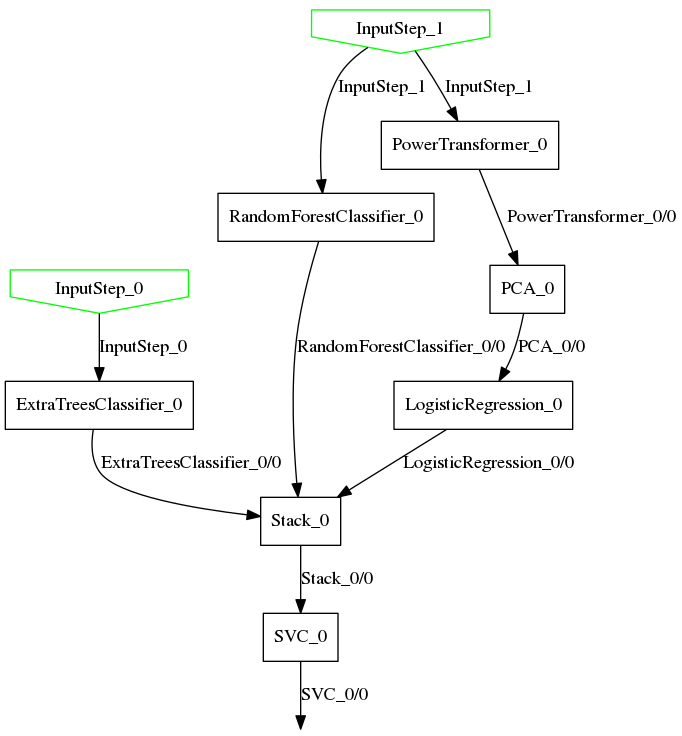
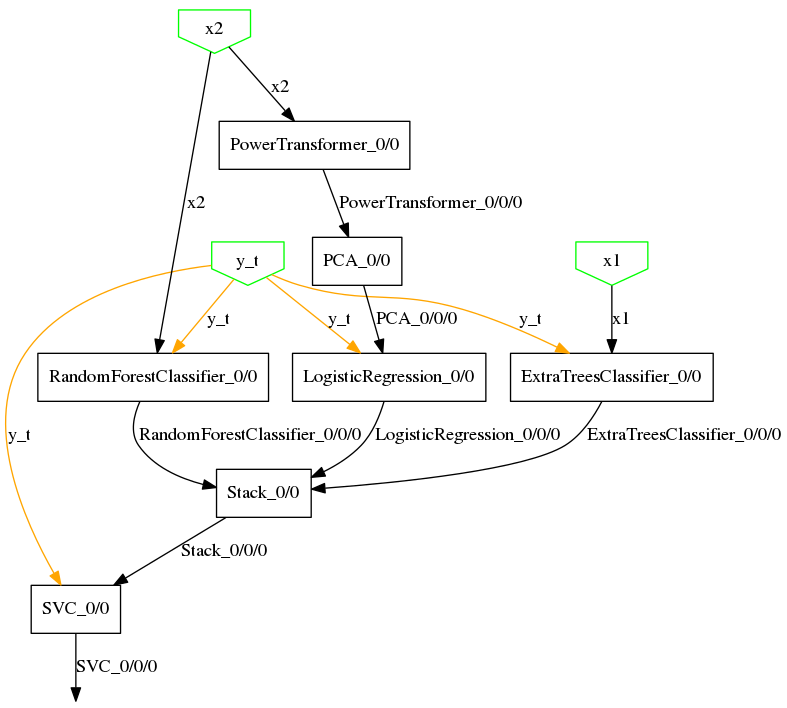
Some fixes to examples and README
- Use shared steps (plot_model now supports them)
- Fix dataplaceholder names in querying example
- Add plot for transformed_target and readme_quick_example

diff --git a/examples/classifier_chain.py b/examples/classifier_chain.py
@@ -28,20 +28,21 @@ random.shuffle(order)
 x = Input()
 y_t = Input()
 
+squeeze = Lambda(np.squeeze, axis=1)
+
 ys_t = Split(n_targets, axis=1)(y_t)
 ys_p = []
 for j, k in enumerate(order):
     x_stacked = ColumnStack()(inputs=[x, *ys_p[:j]])
-    ys_t[k] = Lambda(np.squeeze, axis=1)(ys_t[k])
+    ys_t[k] = squeeze(ys_t[k])
     ys_p.append(LogisticRegression(solver="lbfgs")(x_stacked, ys_t[k]))
 
 ys_p = [ys_p[order.index(j)] for j in range(n_targets)]
 y_p = ColumnStack()(ys_p)
 
 model = Model(inputs=x, outputs=y_p, targets=y_t)
-plot_model(
-    model, filename="classifier_chain.png", dpi=96
-)  # This might take a few seconds
+# This might take a few seconds
+plot_model(model, filename="classifier_chain.png", dpi=96)
 
 # ------- Train model
 model.fit(X_train, Y_train)

diff --git a/examples/readme_long_example.py b/examples/readme_long_example.py
@@ -20,9 +20,9 @@ SVC = make_step(sklearn.svm.SVC)
 PowerTransformer = make_step(sklearn.preprocessing.PowerTransformer)
 
 # 2. Build the model
-x1 = Input()
-x2 = Input()
-y_t = Input()
+x1 = Input(name="x1")
+x2 = Input(name="x2")
+y_t = Input(name="y_t")
 
 y1 = ExtraTreesClassifier()(x1, y_t)
 y2 = RandomForestClassifier()(x2, y_t)
@@ -56,5 +56,5 @@ y_test_pred = model.predict([X1_test, X2_test])
 
 # We can also query any intermediate outputs:
 outs = model.predict(
-    [X1_test, X2_test], output_names=["ExtraTreesClassifier_0/0", "PCA_0/0"]
+    [X1_test, X2_test], output_names=["ExtraTreesClassifier_0/0/0", "PCA_0/0/0"]
 )

diff --git a/examples/transformed_target.py b/examples/transformed_target.py
@@ -10,6 +10,7 @@ from sklearn.metrics import median_absolute_error, r2_score
 from sklearn.model_selection import train_test_split
 
 from baikal import make_step, Input, Model
+from baikal.plot import plot_model
 from baikal.steps import Lambda
 
 
@@ -34,7 +35,9 @@ y_t_trans = Lambda(np.reshape, newshape=(-1, 1))(y_t)
 y_t_trans = transformer(y_t_trans)
 y_p_trans = RidgeCV()(x, y_t_trans)
 y_p = transformer(y_p_trans, compute_func="inverse_transform", trainable=False)
+
 model = Model(x, y_p, y_t)
+plot_model(model, filename="transformed_target.png", dpi=96)
 
 # ------- Train model
 model.fit(X_train, y_train)

diff --git a/examples/stacked_classifiers_naive.py b/examples/stacked_classifiers_naive.py
@@ -29,8 +29,9 @@ y_p1 = LogisticRegression(solver="liblinear", random_state=0)(
 )
 y_p2 = RandomForestClassifier(random_state=0)(x, y_t, compute_func="predict_proba")
 # predict_proba returns arrays whose columns sum to one, so we drop one column
-y_p1 = Lambda(lambda array: array[:, 1:])(y_p1)
-y_p2 = Lambda(lambda array: array[:, 1:])(y_p2)
+drop_first_col = Lambda(lambda array: array[:, 1:])
+y_p1 = drop_first_col(y_p1)
+y_p2 = drop_first_col(y_p2)
 stacked_features = ColumnStack()([y_p1, y_p2])
 y_p = ExtraTreesClassifier(random_state=0)(stacked_features, y_t)
 

diff --git a/examples/stacked_classifiers_standard.py b/examples/stacked_classifiers_standard.py
@@ -45,8 +45,9 @@ y_p1 = LogisticRegression(solver="liblinear", random_state=0)(
 )
 y_p2 = RandomForestClassifier(random_state=0)(x, y_t, compute_func="predict_proba")
 # predict_proba returns arrays whose columns sum to one, so we drop one column
-y_p1 = Lambda(lambda array: array[:, 1:])(y_p1)
-y_p2 = Lambda(lambda array: array[:, 1:])(y_p2)
+drop_first_col = Lambda(lambda array: array[:, 1:])
+y_p1 = drop_first_col(y_p1)
+y_p2 = drop_first_col(y_p2)
 stacked_features = ColumnStack()([y_p1, y_p2])
 y_p = ExtraTreesClassifier(random_state=0)(stacked_features, y_t)
 

diff --git a/examples/readme_quick_example.py b/examples/readme_quick_example.py
@@ -3,6 +3,7 @@ from sklearn.datasets import load_breast_cancer
 from sklearn.model_selection import train_test_split
 
 from baikal import Input, Model, make_step
+from baikal.plot import plot_model
 
 
 # 1. Define a step
@@ -12,7 +13,9 @@ SVC = make_step(sklearn.svm.SVC)
 x = Input()
 y_t = Input()
 y_p = SVC(C=1.0, kernel="rbf", gamma=0.5)(x, y_t)
+
 model = Model(x, y_p, y_t)
+plot_model(model, filename="readme_quick_example.png")
 
 # 3. Train the model
 dataset = load_breast_cancer()

diff --git a/README.md b/README.md
@@ -400,8 +400,9 @@ y_t = Input()
 y_p1 = LogisticRegression()(x, y_t, compute_func="predict_proba")
 y_p2 = RandomForestClassifier()(x, y_t, compute_func="predict_proba")
 # predict_proba returns arrays whose columns sum to one, so we drop one column
-y_p1 = Lambda(lambda array: array[:, 1:])(y_p1)
-y_p2 = Lambda(lambda array: array[:, 1:])(y_p2)
+drop_first_col = Lambda(lambda array: array[:, 1:])
+y_p1 = drop_first_col(y_p1)
+y_p2 = drop_first_col(y_p2)
 ensemble_features = ColumnStack()([y_p1, y_p2])
 y_p = ExtraTreesClassifier()(ensemble_features, y_t)
 
@@ -447,11 +448,13 @@ y_t = Input()
 order = list(range(n_targets))
 random.shuffle(order)
 
+squeeze = Lambda(np.squeeze, axis=1)
+
 ys_t = Split(n_targets, axis=1)(y_t)
 ys_p = []
 for j, k in enumerate(order):
     x_stacked = ColumnStack()([x, *ys_p[:j]])
-    ys_t[k] = Lambda(np.squeeze, axis=1)(ys_t[k])
+    ys_t[k] = squeeze(ys_t[k])
     ys_p.append(LogisticRegression()(x_stacked, ys_t[k]))
 
 ys_p = [ys_p[order.index(j)] for j in range(n_targets)]
